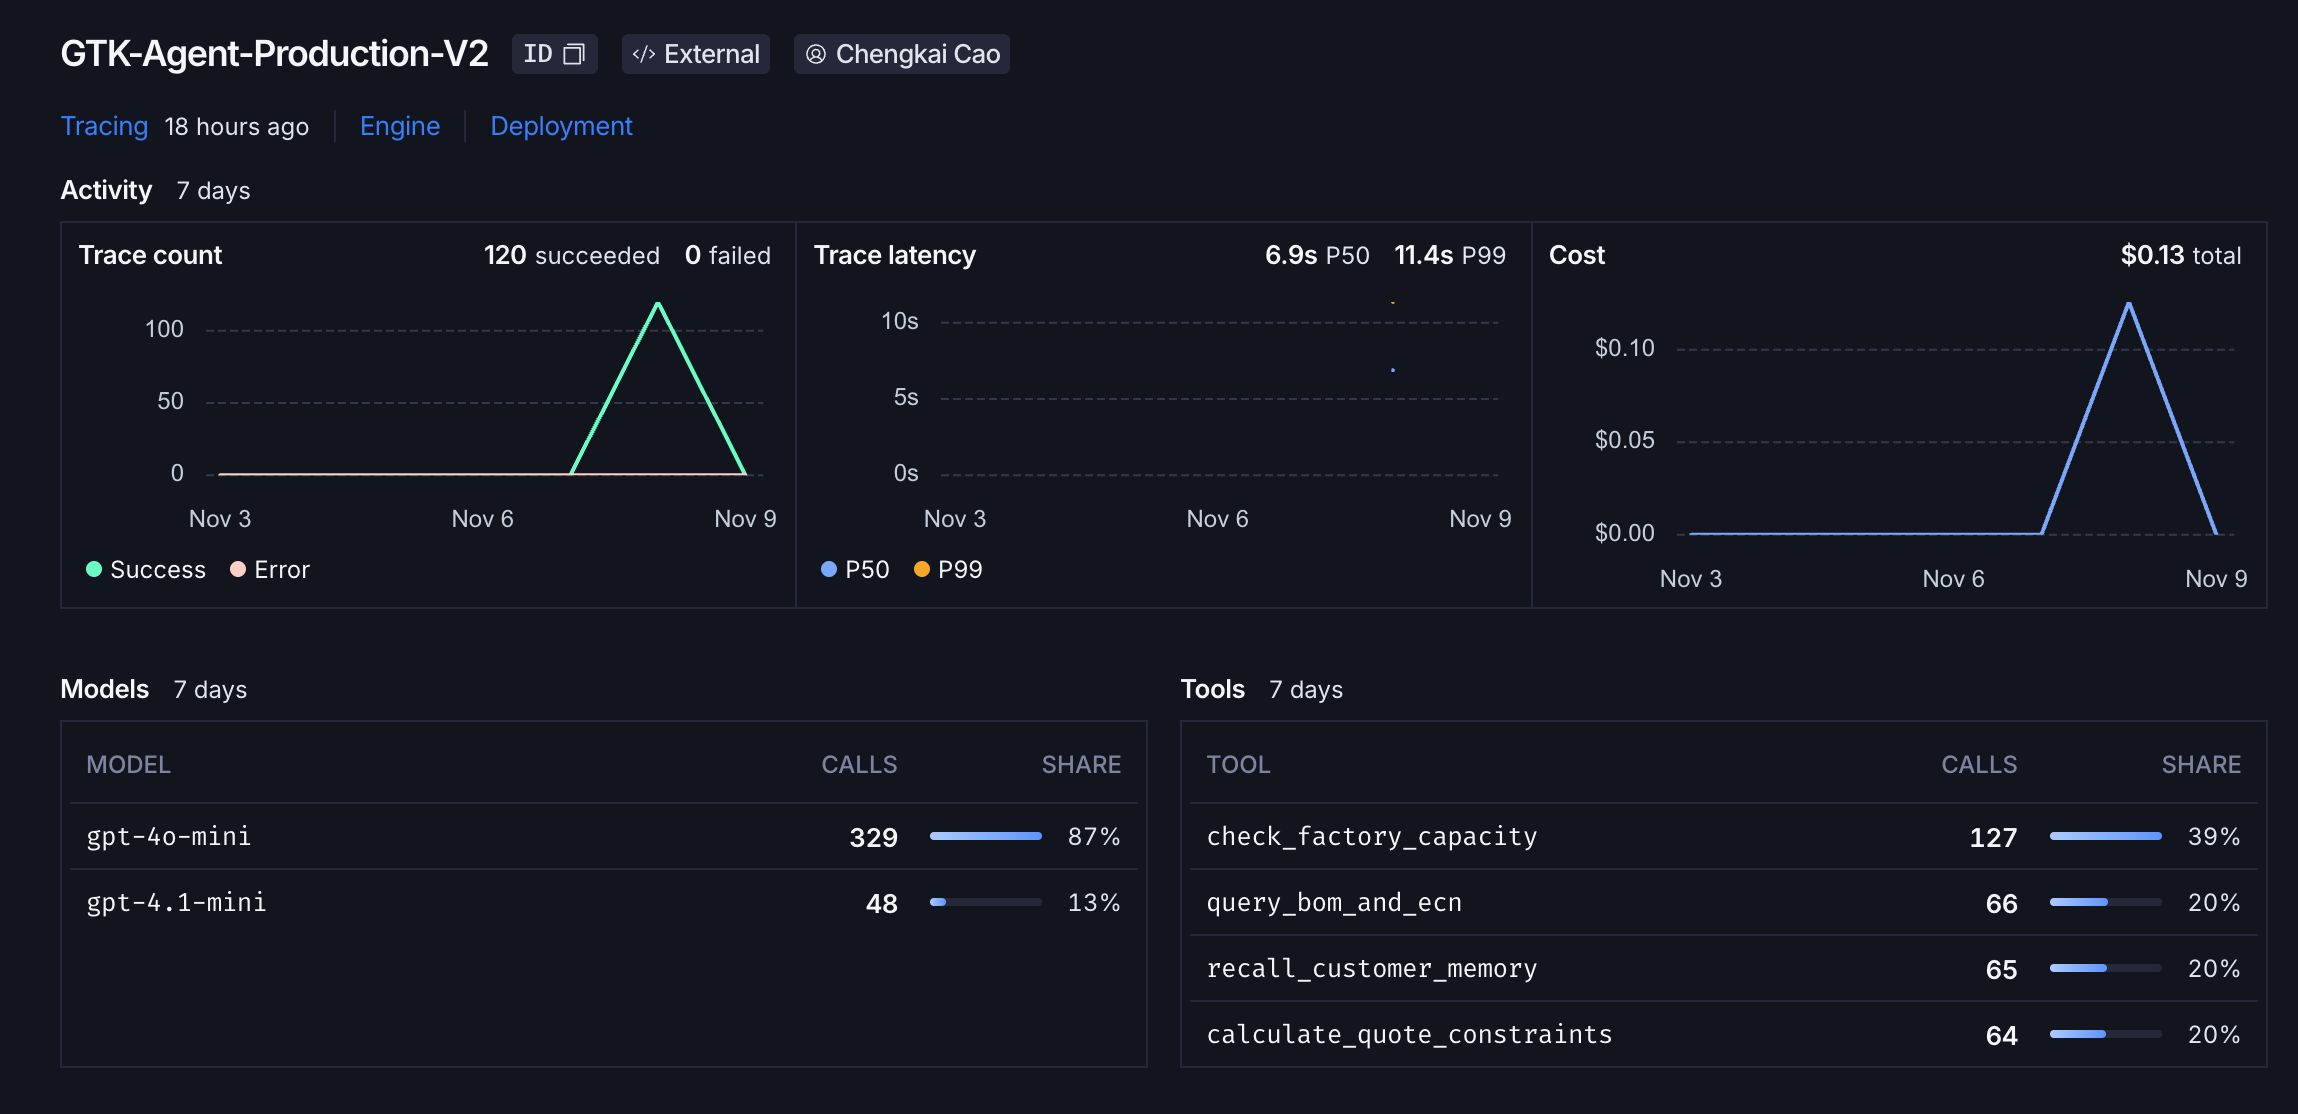
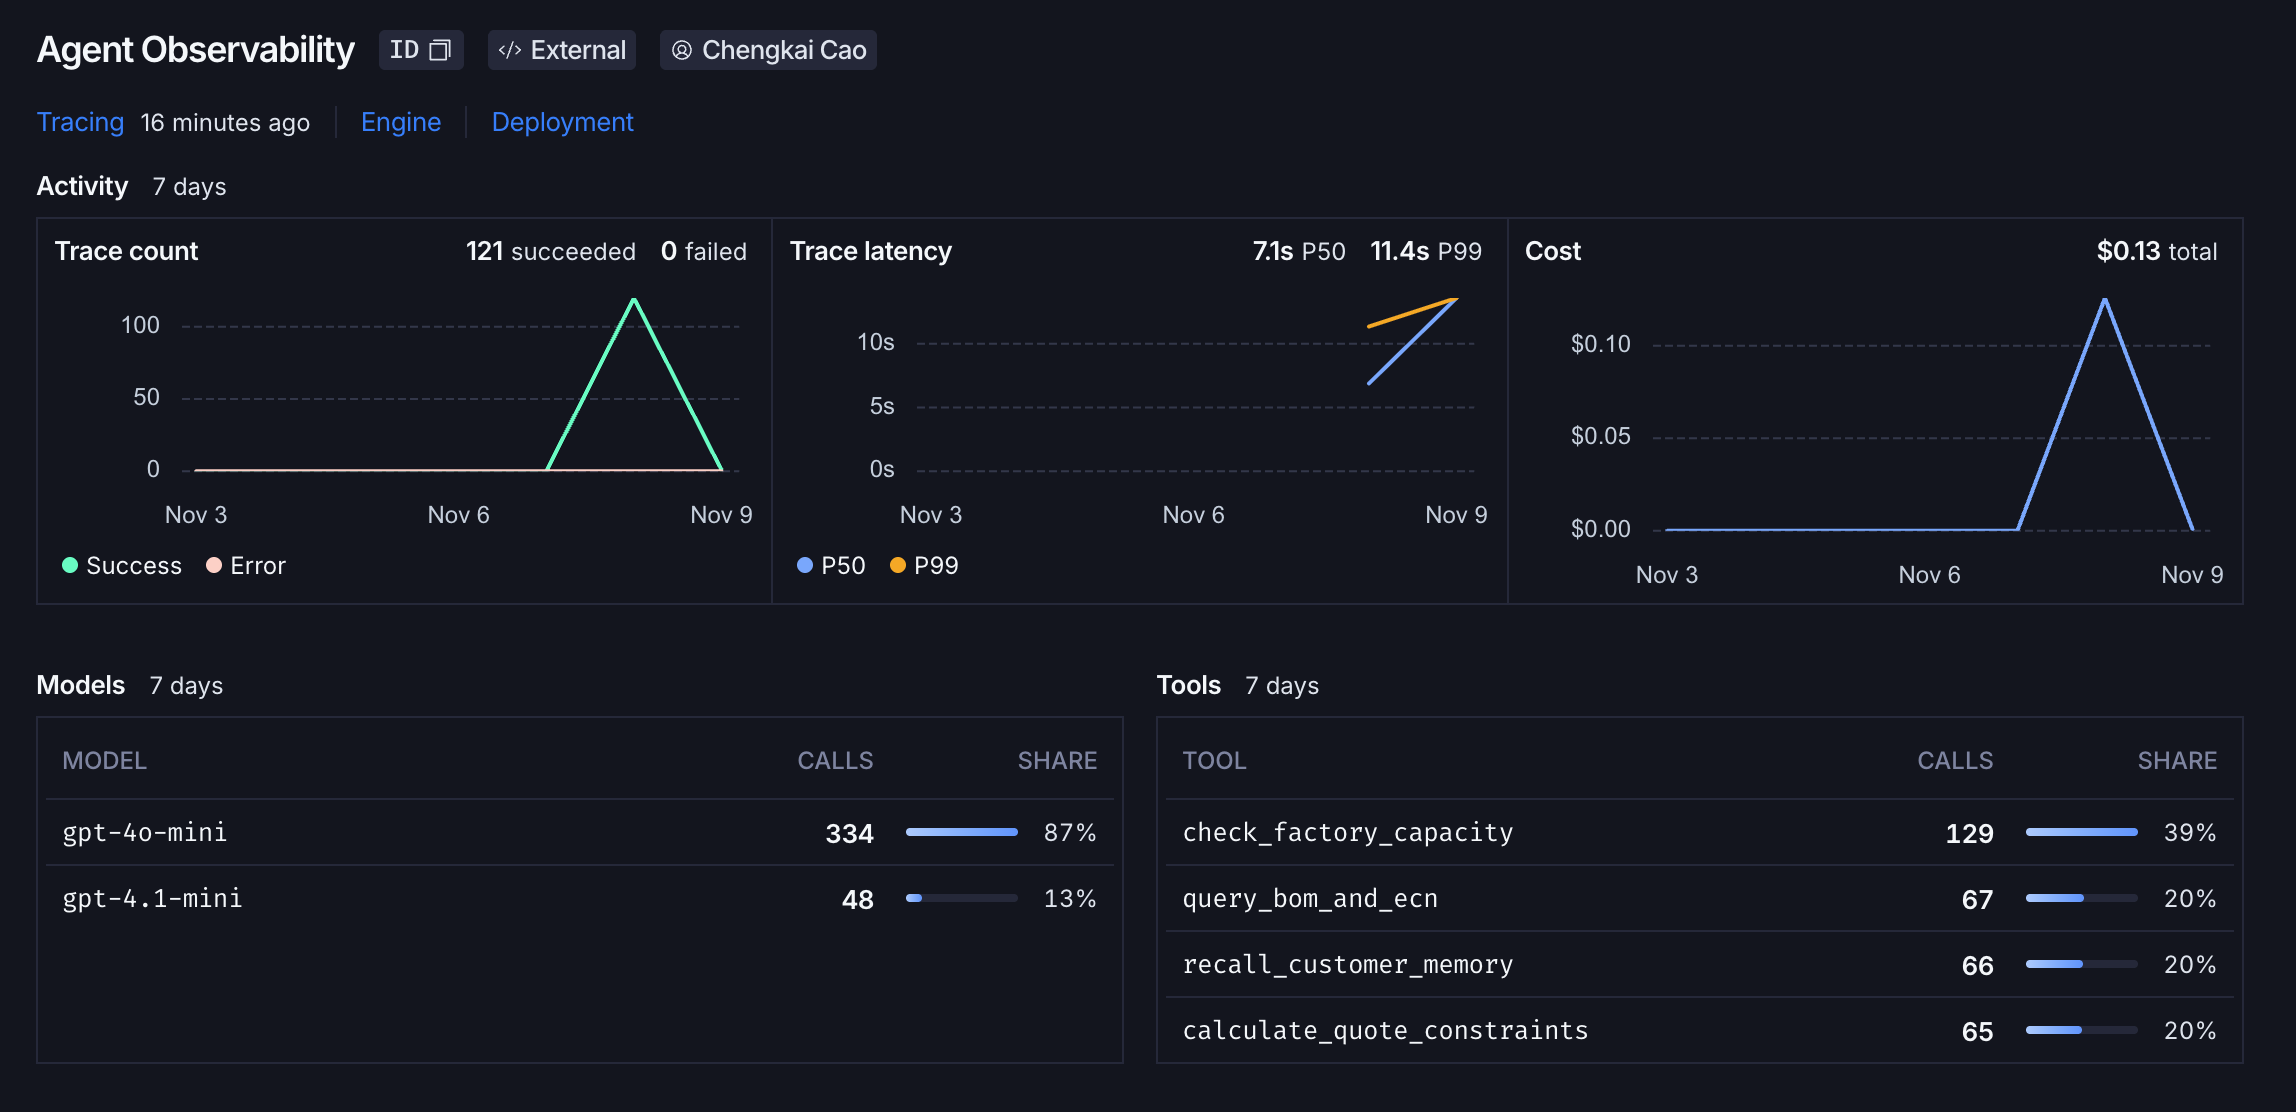
docs: refresh LangSmith observability screenshot

diff --git a/README.md b/README.md
@@ -112,7 +112,7 @@ The recorded batch contains **5 authored fixtures + 18 parameterized cases**. Tw
 
 ![LangSmith activity screenshot supplied by the project owner](docs/assets/langsmith.png)
 
-Root and child runs record node transitions, tool arguments, model calls, token usage and latency. Waterfall traces support diagnosis across **data → retrieval → tools → final decisions**. The screenshot is a seven-day activity aggregate including diagnostics and other runs; its 120 traces and model-call totals are **not the same denominator** as the 23-case acceptance batch. Detailed case Run IDs are retained in the report; private LangSmith access is not required to read this repository.
+Root and child runs record node transitions, tool arguments, model calls, token usage and latency. Waterfall traces support diagnosis across **data → retrieval → tools → final decisions**. The screenshot is a seven-day activity aggregate including diagnostics and other runs; its 121 traces and model-call totals are **not the same denominator** as the 23-case acceptance batch. Detailed case Run IDs are retained in the report; private LangSmith access is not required to read this repository.
 
 ### Automated Agent Evaluation
 
